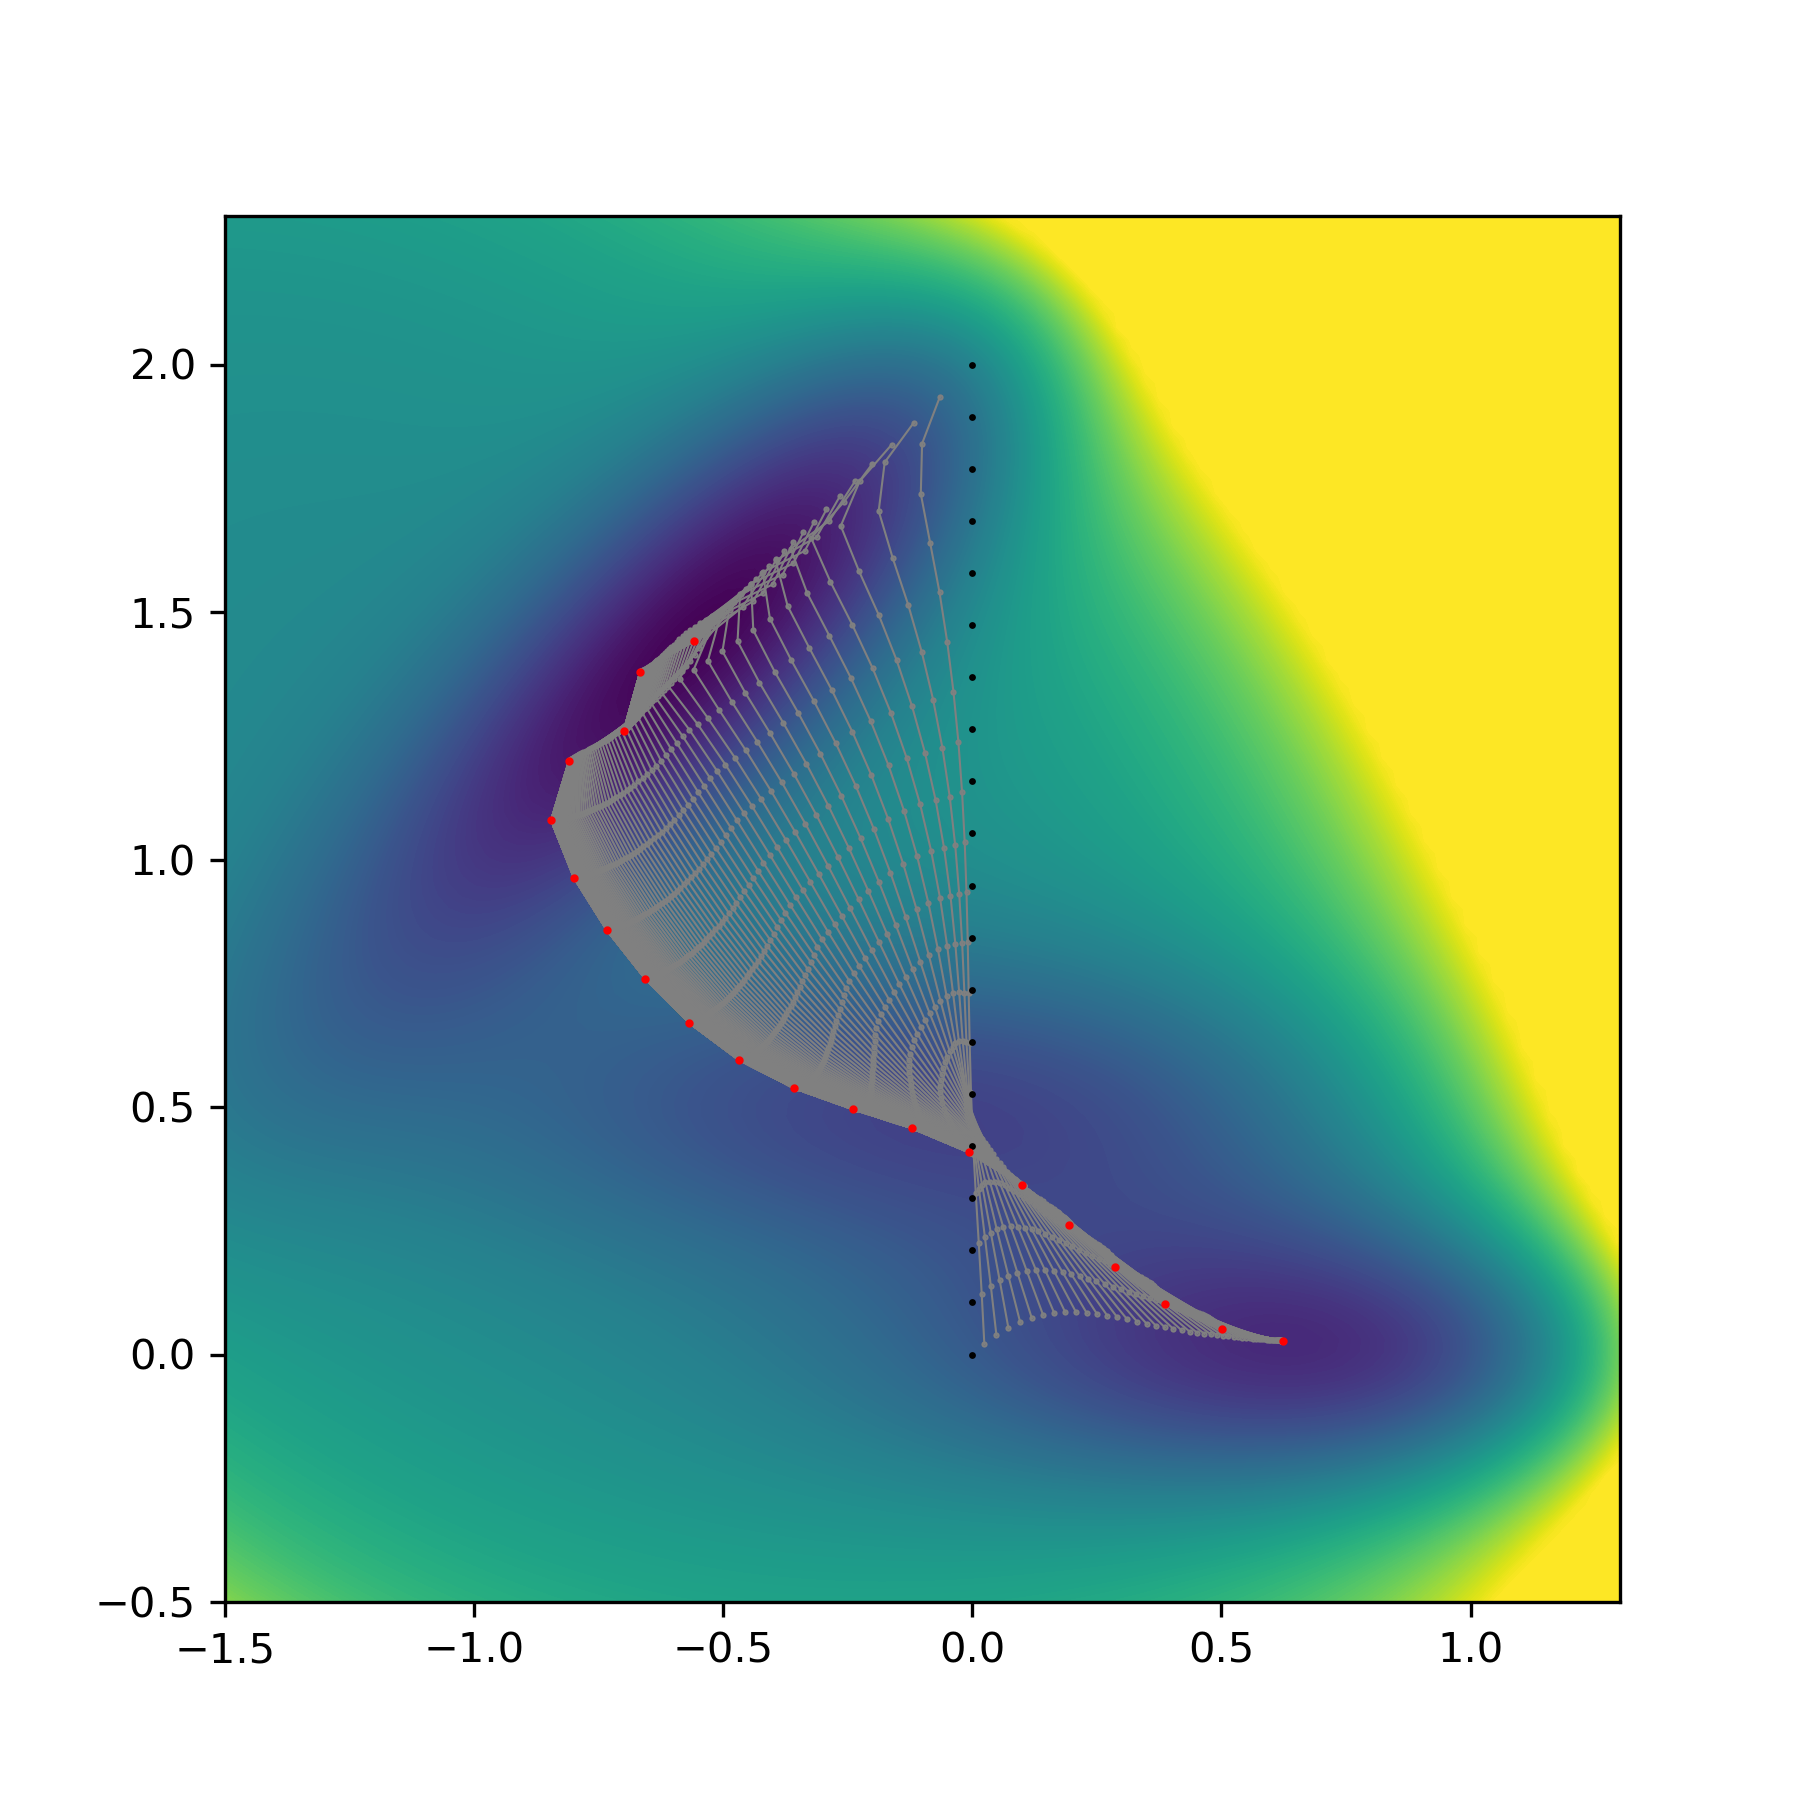
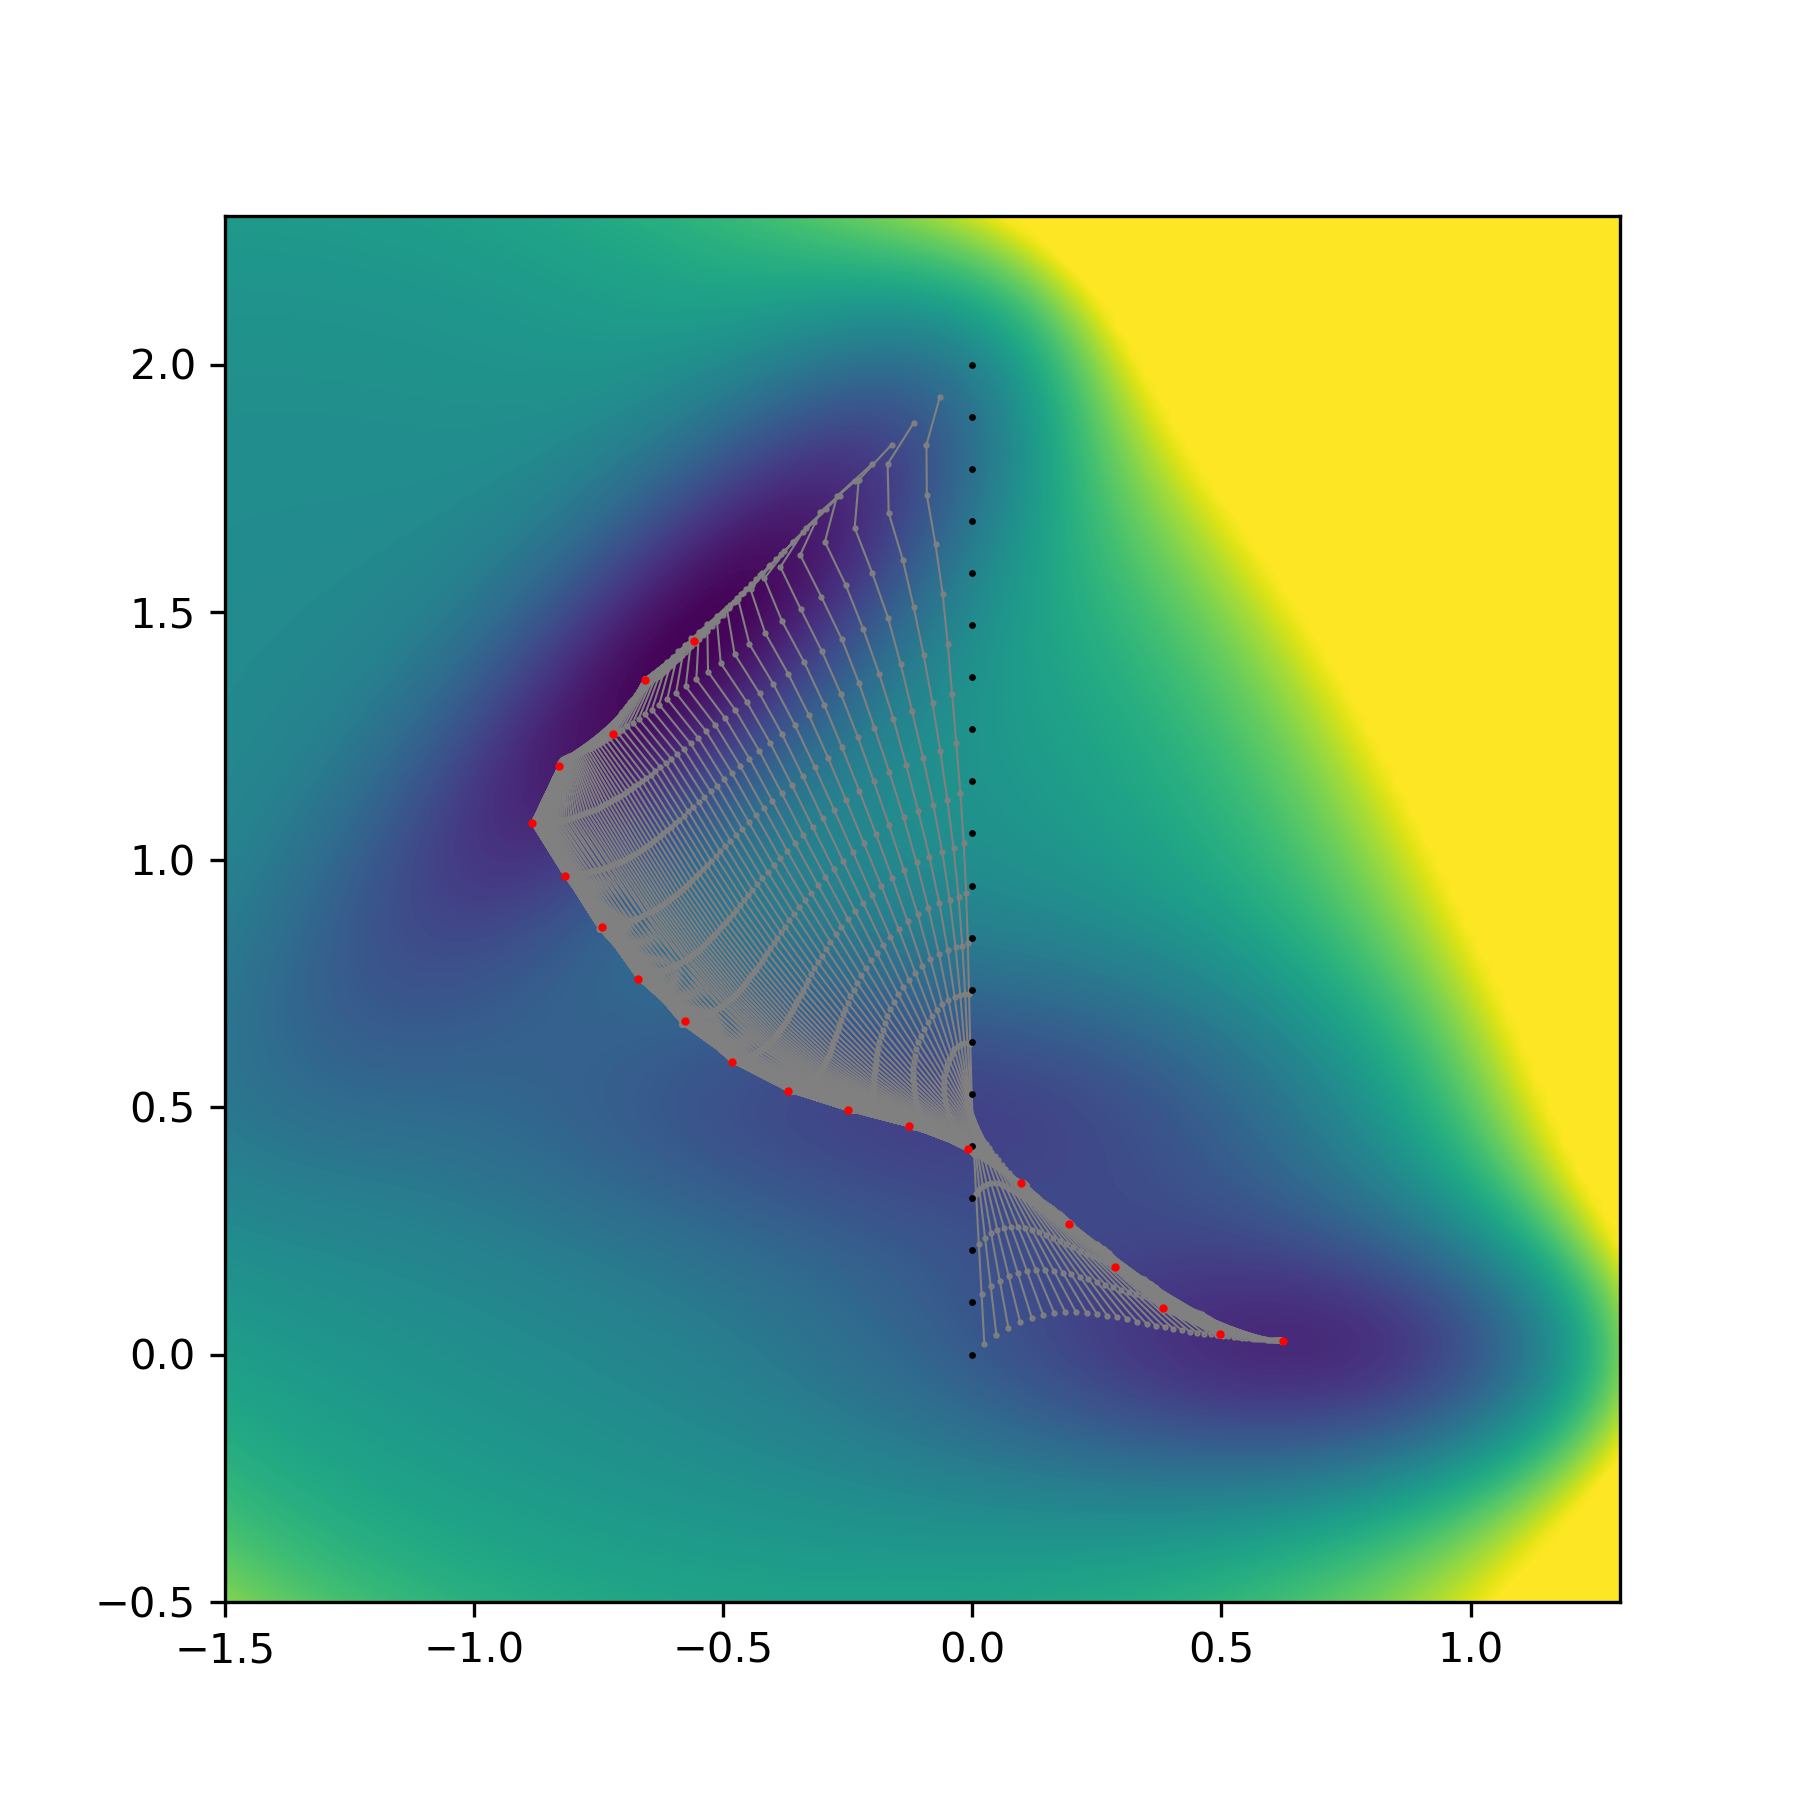
fix a small bug.

Changed region(s): [[0.28, 0.2489, 0.56, 0.6222]]

diff --git a/cos/hpm.py b/cos/hpm.py
@@ -119,7 +119,7 @@ class HolonomicPathMethod(object):
                 lambda_coeff[i][i]       =  2. * numpy.sum((rep_b[i]-rep_b[i+1]) * (rep_a[i]   - rep_a[i+1])) / rms_a[i]   / rms_b[i]
                 
                 if i != 0:              # lambda(i-1), not the first row. 
-                    lambda_coeff[i][i-1] =  1. * numpy.sum((rep_b[i]-rep_b[i+1]) * (rep_a[i-1] - rep_a[i]  )) / rms_a[i-1] / rms_b[i]
+                    lambda_coeff[i][i-1] = -1. * numpy.sum((rep_b[i]-rep_b[i+1]) * (rep_a[i-1] - rep_a[i]  )) / rms_a[i-1] / rms_b[i]
                 if i != n_lambda-1:     # lambda(i+1), not the  last row.
                     lambda_coeff[i][i+1] = -1. * numpy.sum((rep_b[i]-rep_b[i+1]) * (rep_a[i+1] - rep_a[i+2])) / rms_a[i+1] / rms_b[i]
 
